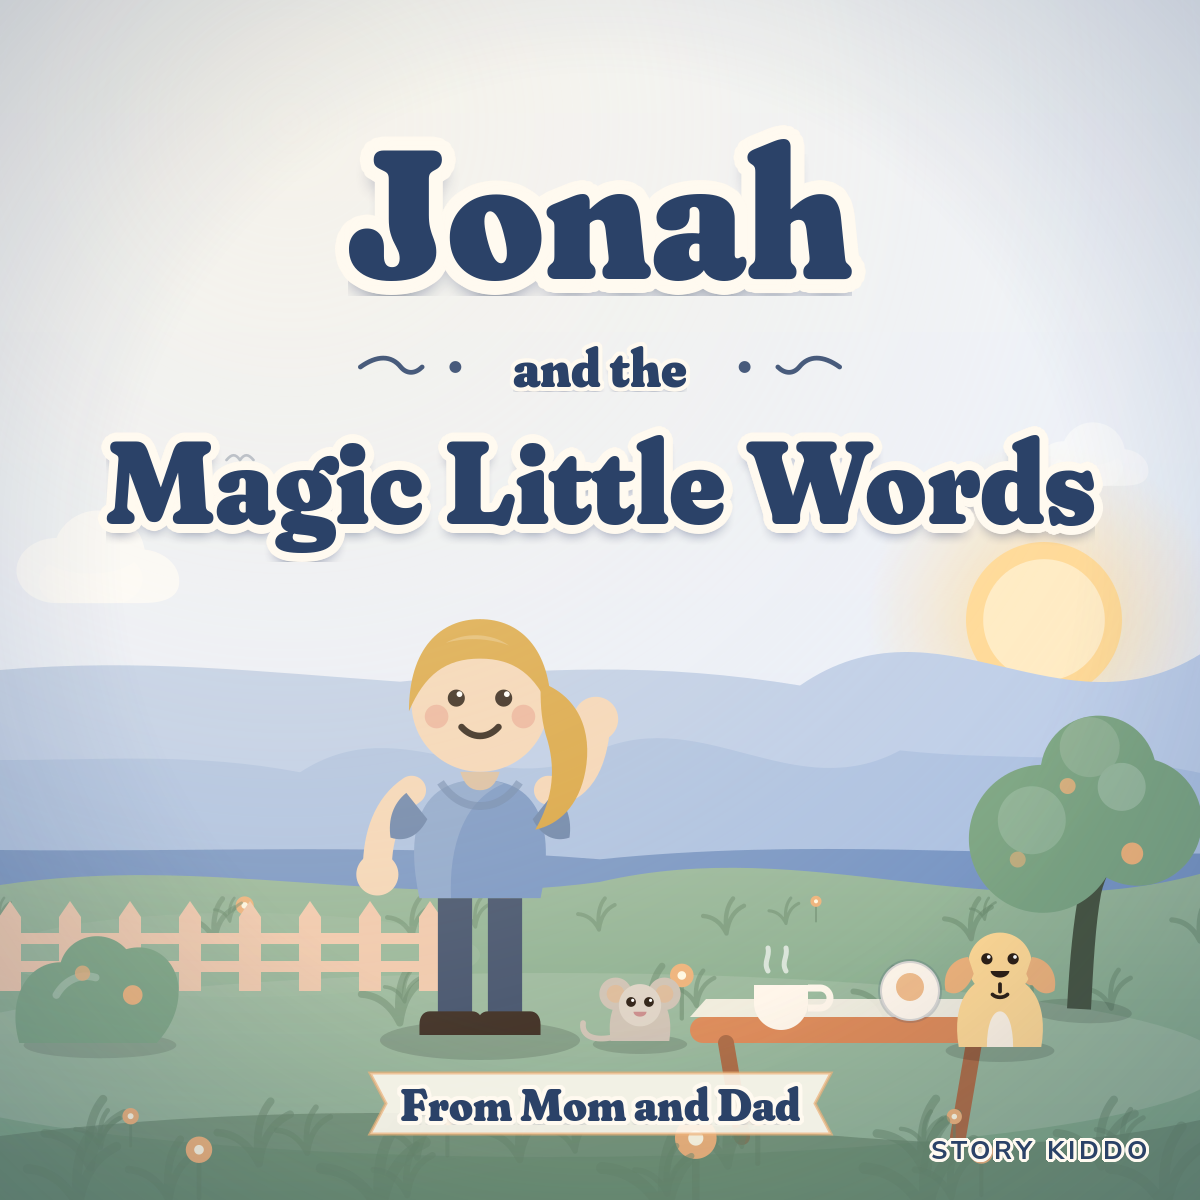
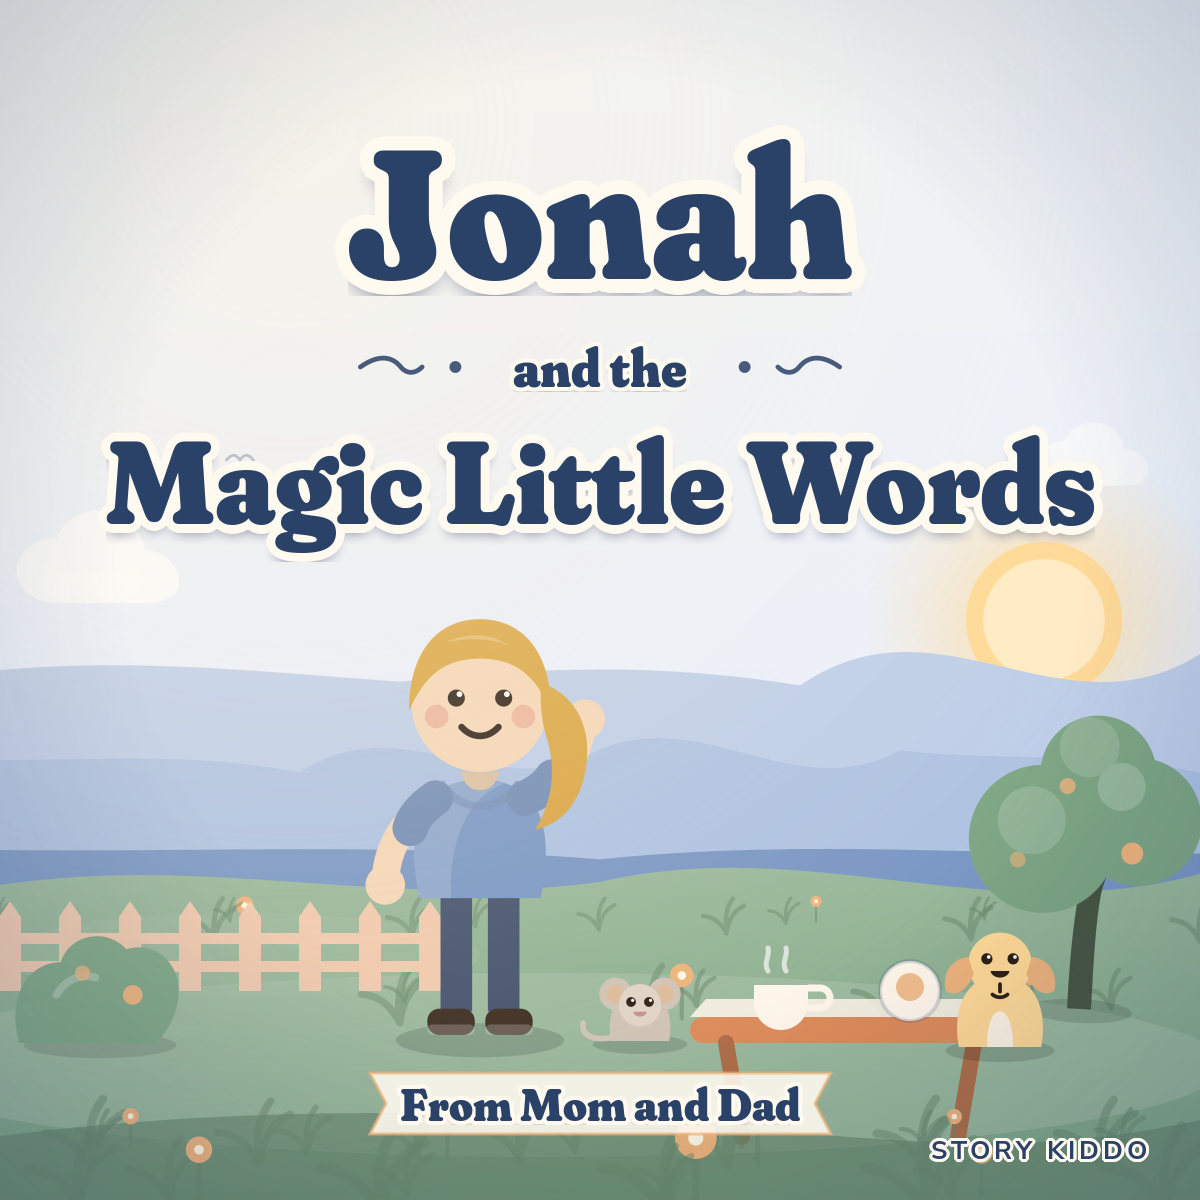
Redraw the children and rebalance the nature and gift scenes
Arms now hang from the shoulder seam with a sleeve cap instead of floating
beside the torso, and the shoes read as a pair. The stream in the nature
scene moves into the middle distance so nobody stands in the water, and the
reading pair in the gift-moment hero shifts left to leave the right side of
the picture for the book mockups.

diff --git a/src/lib/art/hero-scene.ts b/src/lib/art/hero-scene.ts
@@ -64,8 +64,8 @@ export function giftMomentScene(): string {
   const width = 1600;
   const height = 1100;
 
-  const adultHair = `<path d="M1006 466c0-46 26-74 64-74s64 28 64 74c0 14-2 26-6 36 2-34-20-52-58-52s-60 18-58 52c-4-10-6-22-6-36z" fill="#4a3324"/><path d="M1000 486c-12 22-14 48-8 70 12 2 20-6 20-20 0-16-4-32-12-50z" fill="#4a3324"/>`;
-  const childHair = `<g fill="#2a1a12"><circle cx="836" cy="524" r="24"/><circle cx="872" cy="508" r="28"/><circle cx="908" cy="524" r="24"/><circle cx="824" cy="548" r="18"/><circle cx="920" cy="548" r="18"/></g>`;
+  const adultHair = `<path d="M762 566c0-46 26-74 64-74s64 28 64 74c0 14-2 26-6 36 2-34-20-52-58-52s-60 18-58 52c-4-10-6-22-6-36z" fill="#4a3324"/><path d="M756 586c-12 22-14 48-8 70 12 2 20-6 20-20 0-16-4-32-12-50z" fill="#4a3324"/>`;
+  const childHair = `<g fill="#2a1a12"><circle cx="620" cy="624" r="24"/><circle cx="656" cy="608" r="28"/><circle cx="692" cy="624" r="24"/><circle cx="608" cy="648" r="18"/><circle cx="704" cy="648" r="18"/></g>`;
 
   return (
     `<svg xmlns="http://www.w3.org/2000/svg" width="${width}" height="${height}" viewBox="0 0 ${width} ${height}">` +
@@ -120,7 +120,7 @@ export function giftMomentScene(): string {
     `<rect width="${width}" height="${height}" fill="url(#lamplight)"/>` +
 
     // Potted plant.
-    `<g transform="translate(300 830)">` +
+    `<g transform="translate(150 838)">` +
     `<path d="M-52 0h104l-14 120h-76z" fill="#c07a55"/>` +
     `<path d="M-52 0h104l-4 30h-96z" fill="${WARM.ink}" opacity="0.12"/>` +
     `<g fill="${WARM.leaf}">` +
@@ -131,38 +131,42 @@ export function giftMomentScene(): string {
     `</g>` +
 
     // Rug.
-    `<ellipse cx="900" cy="990" rx="620" ry="112" fill="${WARM.rug}"/>` +
-    `<ellipse cx="900" cy="990" rx="560" ry="92" fill="none" stroke="${WARM.cream}" stroke-width="10" opacity="0.5"/>` +
-    `<ellipse cx="900" cy="990" rx="470" ry="72" fill="${WARM.rugDeep}" opacity="0.35"/>` +
+    `<ellipse cx="690" cy="990" rx="600" ry="112" fill="${WARM.rug}"/>` +
+    `<ellipse cx="690" cy="990" rx="540" ry="92" fill="none" stroke="${WARM.cream}" stroke-width="10" opacity="0.5"/>` +
+    `<ellipse cx="690" cy="990" rx="450" ry="72" fill="${WARM.rugDeep}" opacity="0.35"/>` +
 
-    // Sofa.
+    // Sofa back, with the pair sitting in front of it.
+    `<path d="M330 906V744c0-50 36-86 86-86h520c50 0 86 36 86 86v162z" fill="${WARM.sofa}"/>` +
+    `<path d="M330 906V744c0-50 36-86 86-86h70c-32 22-48 54-48 96v152z" fill="#ffffff" opacity="0.12"/>` +
+    `<path d="M404 700c26-14 52-8 60 14 8 20-6 42-30 46-26 4-46-10-48-32-2-14 6-22 18-28z" fill="#e3b07d"/>` +
+
+    // The grown-up, an arm around the child.
     `<g>` +
-    `<path d="M600 900v-190c0-54 38-92 92-92h420c54 0 92 38 92 92v190z" fill="${WARM.sofa}"/>` +
-    `<path d="M600 900v-190c0-54 38-92 92-92h60c-30 26-44 58-44 96v186z" fill="#ffffff" opacity="0.12"/>` +
-    `<rect x="560" y="760" width="90" height="180" rx="34" fill="${WARM.sofaDeep}"/>` +
-    `<rect x="1150" y="760" width="90" height="180" rx="34" fill="${WARM.sofaDeep}"/>` +
-    `<rect x="620" y="840" width="560" height="96" rx="34" fill="${WARM.sofaDeep}"/>` +
-    `<path d="M1086 742c26-16 52-10 60 14 8 22-6 44-30 48-26 4-46-10-48-32-2-16 6-24 18-30z" fill="#e3b07d"/>` +
+    `<path d="M760 880V760c0-46 30-76 66-76s64 30 64 76v120z" fill="#6f7f94"/>` +
+    `<path d="M768 782c-48 6-84 26-104 54" stroke="#6f7f94" stroke-width="38" stroke-linecap="round" fill="none"/>` +
+    `<circle cx="664" cy="838" r="20" fill="#eec19c"/>` +
+    `<path d="M884 782c22 10 36 28 42 52" stroke="#6f7f94" stroke-width="38" stroke-linecap="round" fill="none"/>` +
+    `<path d="M796 706c10 16 18 24 30 24s20-8 30-24z" fill="#eec19c"/>` +
+    head(826, 606, 62, "#eec19c", "#4a3324", adultHair, 5) +
     `</g>` +
 
-    // The grown-up, arm around the child.
+    // The child, the book open on their lap.
     `<g>` +
-    `<path d="M1000 900v-150c0-56 32-92 74-92s72 36 72 92v150z" fill="#6f7f94"/>` +
-    `<path d="M1000 806c-56 6-96 30-120 62" stroke="#6f7f94" stroke-width="42" stroke-linecap="round" fill="none"/>` +
-    head(1070, 500, 62, "#eec19c", "#4a3324", adultHair, 5) +
-    `<path d="M1010 560c18 24 40 36 64 36s46-12 62-34c14 10 24 26 28 44h-182c4-18 14-36 28-46z" fill="#6f7f94"/>` +
+    `<path d="M582 884V786c0-42 32-70 74-70s74 28 74 70v98z" fill="#d9654a"/>` +
+    `<path d="M592 800c-24 10-40 26-48 48M720 800c24 10 40 26 48 48" stroke="#eec19c" stroke-width="30" stroke-linecap="round" fill="none"/>` +
+    `<path d="M632 728c8 14 15 20 24 20s17-6 24-20z" fill="#8a5a3b"/>` +
+    head(656, 660, 54, "#8a5a3b", "#2a1a12", childHair, 5) +
     `</g>` +
 
-    // The child, holding the book open on their lap.
-    `<g>` +
-    `<path d="M790 900v-120c0-48 36-80 82-80s82 32 82 80v120z" fill="#d9654a"/>` +
-    `<path d="M790 812c-28 10-46 28-54 52M954 812c28 10 46 28 54 52" stroke="#eec19c" stroke-width="34" stroke-linecap="round" fill="none"/>` +
-    head(872, 560, 54, "#8a5a3b", "#2a1a12", childHair, 5) +
-    `</g>` +
-    openBook(886, 860, 1.25) +
+    // Seat and arms in front, so they really are sitting in it.
+    `<rect x="356" y="852" width="574" height="96" rx="34" fill="${WARM.sofaDeep}"/>` +
+    `<rect x="296" y="772" width="92" height="180" rx="34" fill="${WARM.sofaDeep}"/>` +
+    `<rect x="898" y="772" width="92" height="180" rx="34" fill="${WARM.sofaDeep}"/>` +
+    `<path d="M296 772h92v28h-92zM898 772h92v28h-92z" fill="#ffffff" opacity="0.12"/>` +
+    openBook(666, 872, 1.2) +
 
     // A wrapped gift, ribbon still on it.
-    `<g transform="translate(430 960)">` +
+    `<g transform="translate(220 966)">` +
     `<rect x="-90" y="-96" width="180" height="96" rx="10" fill="${WARM.cream}"/>` +
     `<rect x="-90" y="-96" width="180" height="96" rx="10" fill="${WARM.sofa}" opacity="0.2"/>` +
     `<rect x="-14" y="-96" width="28" height="96" fill="#d9654a" opacity="0.9"/>` +
@@ -171,7 +175,7 @@ export function giftMomentScene(): string {
     `</g>` +
 
     // The dog, asleep through all of it.
-    `<g transform="translate(1290 950)">` +
+    `<g transform="translate(1076 972)">` +
     `<ellipse cx="0" cy="10" rx="110" ry="20" fill="${WARM.ink}" opacity="0.14"/>` +
     `<path d="M-96 0c-10-44 18-74 66-74 44 0 74 26 70 74z" fill="#e0b98c"/>` +
     `<circle cx="-84" cy="-34" r="34" fill="#e0b98c"/>` +

diff --git a/src/lib/art/scene.ts b/src/lib/art/scene.ts
@@ -87,7 +87,7 @@ const CHILD_LOOKS: Record<string, ChildLook> = {
   emotions: { skin: "#f0c9a8", hair: "#c2703a", top: "#e4a0b2", bottom: "#64486a", hairStyle: "bob" },
   "kindness-values": { skin: "#6f4529", hair: "#241812", top: "#f4efe4", bottom: "#3f7a52", hairStyle: "braids" },
   "life-milestones": { skin: "#edc39c", hair: "#5a3a22", top: "#d2643c", bottom: "#4a5f7a", hairStyle: "short" },
-  "animals-nature": { skin: "#c98f63", hair: "#33241a", top: "#6d9a54", bottom: "#4a4032", hairStyle: "curls" },
+  "animals-nature": { skin: "#c98f63", hair: "#33241a", top: "#6d9a54", bottom: "#a2854f", hairStyle: "curls" },
   manners: { skin: "#f4d5b6", hair: "#d9a441", top: "#7795c4", bottom: "#41506b", hairStyle: "ponytail" },
 };
 
@@ -428,54 +428,61 @@ function milestonesScene(art: TrackArt, layout: Layout): string {
         `<rect x="76" y="-132" width="62" height="54" rx="10" fill="${art.accent}" opacity="0.9"/>` +
         `<path d="M-136-105h62M76-105h62" stroke="#fff6ea" stroke-width="6" opacity="0.7"/>`,
     ) +
-    stepStone(centerX - 450, ground + 130, 92) +
-    stepStone(centerX - 300, ground + 92, 78) +
-    stepStone(centerX - 160, ground + 56, 66) +
-    child(centerX - 190, ground + 44, h, look("life-milestones"), {
+    stepStone(centerX - 450, ground + 96, 92) +
+    stepStone(centerX - 320, ground + 66, 78) +
+    stepStone(centerX - 190, ground + 40, 66) +
+    child(centerX - 200, ground + 18, h, look("life-milestones"), {
       behind: `<g transform="translate(-92 -184)"><rect x="-40" y="-34" width="80" height="92" rx="22" fill="${art.accent}"/><path d="M-24-34c0-18 10-28 24-28s24 10 24 28" fill="none" stroke="${shade(
         art.accent,
         0.4,
       )}" stroke-width="8"/><rect x="-28" y="6" width="56" height="28" rx="10" fill="#fff6ea" opacity="0.85"/></g>`,
     }) +
-    companion("turtle", centerX - 10, ground + 26, 130, art)
+    companion("turtle", centerX - 10, ground + 20, 130, art)
   );
 }
 
 function natureScene(art: TrackArt, layout: Layout): string {
-  const { centerX, ground, childHeight: h, width, height } = layout;
+  const { centerX, ground, childHeight: h, width } = layout;
   const butterfly = (x: number, y: number, scale: number, color: string) =>
     at(
       x,
       y,
       scale,
-      `<path d="M0 0c-16-22-40-26-47-12s12 30 47 12zM0 0c16-22 40-26 47-12s-12 30-47 12z" fill="${color}"/>` +
-        `<path d="M0-10v22" stroke="${art.deep}" stroke-width="5" stroke-linecap="round" opacity="0.6"/>`,
+      `<g transform="rotate(-12)">` +
+        `<ellipse cx="-22" cy="-13" rx="24" ry="18" transform="rotate(-24 -22 -13)" fill="${color}"/>` +
+        `<ellipse cx="22" cy="-13" rx="24" ry="18" transform="rotate(24 22 -13)" fill="${color}"/>` +
+        `<ellipse cx="-17" cy="14" rx="17" ry="13" transform="rotate(20 -17 14)" fill="${shade(color, 0.18)}"/>` +
+        `<ellipse cx="17" cy="14" rx="17" ry="13" transform="rotate(-20 17 14)" fill="${shade(color, 0.18)}"/>` +
+        `<rect x="-3" y="-19" width="6" height="38" rx="3" fill="${art.deep}" opacity="0.7"/>` +
+        `<path d="M-2-19c-6-8-14-12-20-11M2-19c6-8 14-12 20-11" stroke="${art.deep}" stroke-width="3" fill="none" opacity="0.55" stroke-linecap="round"/>` +
+        `</g>`,
     );
+  // The stream sits in the middle distance so the children stand on dry meadow.
+  const streamY = ground - 128;
   return (
     pine(centerX - 500, ground - 30, 380, art) +
     pine(centerX - 350, ground - 60, 280, art) +
     pine(centerX + 500, ground - 34, 330, art) +
     tree(centerX + 320, ground - 30, 290, art, 2) +
-    // A stream cutting across the meadow.
-    `<path d="M0 ${n(height - 118)}c${n(width * 0.3)} ${n(-66)} ${n(width * 0.46)} ${n(44)} ${n(
+    `<path d="M0 ${n(streamY)}c${n(width * 0.3)} ${n(-38)} ${n(width * 0.46)} ${n(30)} ${n(
       width,
-    )} ${n(-34)}" stroke="#bfe0ea" stroke-width="56" fill="none" opacity="0.8" stroke-linecap="round"/>` +
-    `<path d="M0 ${n(height - 126)}c${n(width * 0.3)} ${n(-66)} ${n(width * 0.46)} ${n(44)} ${n(
+    )} ${n(-18)}" stroke="#bfe0ea" stroke-width="44" fill="none" opacity="0.8" stroke-linecap="round"/>` +
+    `<path d="M0 ${n(streamY - 7)}c${n(width * 0.3)} ${n(-38)} ${n(width * 0.46)} ${n(30)} ${n(
       width,
-    )} ${n(-34)}" stroke="#ffffff" stroke-width="12" fill="none" opacity="0.45"/>` +
+    )} ${n(-18)}" stroke="#ffffff" stroke-width="10" fill="none" opacity="0.45"/>` +
     child(centerX - 60, ground, h, look("animals-nature"), {
-      holding: `<g transform="translate(0 -250)"><rect x="-54" y="-20" width="46" height="42" rx="12" fill="${shade(
+      holding: `<g transform="translate(96 -104) rotate(18)"><circle r="42" fill="#cfe6ee" opacity="0.85"/><circle r="42" fill="none" stroke="${shade(
+        art.prop,
+        0.2,
+      )}" stroke-width="12"/><path d="M-16-18a30 30 0 0 1 22-14" stroke="#ffffff" stroke-width="8" fill="none" stroke-linecap="round" opacity="0.8"/><rect x="-9" y="40" width="18" height="52" rx="9" fill="${shade(
         art.deep,
         0.1,
-      )}"/><rect x="8" y="-20" width="46" height="42" rx="12" fill="${shade(art.deep, 0.1)}"/><rect x="-10" y="-10" width="20" height="16" fill="${shade(
-        art.deep,
-        0.1,
-      )}"/><circle cx="-31" cy="1" r="11" fill="${art.warm}" opacity="0.85"/><circle cx="31" cy="1" r="11" fill="${art.warm}" opacity="0.85"/></g>`,
+      )}"/></g>`,
     }) +
     companion("fox", centerX + 150, ground + 6, 165, art) +
-    companion("owl", centerX - 330, ground - 210, 130, art) +
-    butterfly(centerX + 280, ground - 300, 1.2, art.accent) +
-    butterfly(centerX - 190, ground - 360, 0.85, art.prop) +
+    companion("owl", centerX - 320, ground + 2, 130, art) +
+    butterfly(centerX + 300, ground - 320, 1.1, art.accent) +
+    butterfly(centerX - 200, ground - 380, 0.8, art.prop) +
     // Mushrooms in the foreground.
     at(
       centerX + 430,

diff --git a/src/lib/art/primitives.ts b/src/lib/art/primitives.ts
@@ -279,29 +279,40 @@ export function child(
   const s = height / 304;
   const { skin, hair, top, bottom, hairStyle = "short" } = look;
   const shoe = "#3b2b20";
-  const sleeve = shade(top, 0.14);
+  const sleeve = shade(top, 0.08);
 
+  // Arms hang from the shoulder seam so the sleeve caps them where the torso
+  // narrows, rather than floating beside it.
+  const limb = (d: string) =>
+    `<path d="${d}" fill="none" stroke="${skin}" stroke-width="21" stroke-linecap="round"/>`;
+  const cuff = (d: string) =>
+    `<path d="${d}" fill="none" stroke="${sleeve}" stroke-width="27" stroke-linecap="round"/>`;
+  const hand = (cx: number, cy: number) =>
+    `<circle cx="${n(cx)}" cy="${n(cy)}" r="15" fill="${skin}"/>`;
+
+  const restLeft = limb("M-36-178C-56-164-70-146-72-118") + hand(-72, -114);
+  const restRight = limb("M36-178C56-164 70-146 72-118") + hand(72, -114);
   const arms = options.wave
-    ? `<path d="M-52-186c-18 12-26 34-26 60" stroke="${skin}" stroke-width="22" stroke-linecap="round" fill="none"/>` +
-      `<circle cx="-78" cy="-122" r="16" fill="${skin}"/>` +
-      `<path d="M52-186c22 2 34-20 36-50" stroke="${skin}" stroke-width="22" stroke-linecap="round" fill="none"/>` +
-      `<circle cx="88" cy="-240" r="17" fill="${skin}"/>`
-    : `<path d="M-52-186c-16 16-24 38-24 62" stroke="${skin}" stroke-width="22" stroke-linecap="round" fill="none"/>` +
-      `<circle cx="-76" cy="-120" r="16" fill="${skin}"/>` +
-      `<path d="M52-186c16 16 24 38 24 62" stroke="${skin}" stroke-width="22" stroke-linecap="round" fill="none"/>` +
-      `<circle cx="76" cy="-120" r="16" fill="${skin}"/>`;
+    ? restLeft + limb("M36-178C58-188 74-208 78-236") + hand(80, -240)
+    : restLeft + restRight;
+  const cuffs = options.wave
+    ? cuff("M-34-180C-44-173-51-165-53-157") + cuff("M34-180C44-184 51-190 55-196")
+    : cuff("M-34-180C-44-173-51-165-53-157") + cuff("M34-180C44-173 51-165 53-157");
 
   const body =
-    `<ellipse cx="0" cy="4" rx="76" ry="15" fill="#000000" opacity="0.15"/>` +
+    `<ellipse cx="0" cy="4" rx="64" ry="13" fill="#000000" opacity="0.15"/>` +
     (options.behind ?? "") +
     // legs and shoes
-    `<path d="M-32-104h26v88h-26zM6-104h26v88H6z" fill="${bottom}"/>` +
-    `<path d="M-38-18h32c5 0 8 4 8 10v8h-48v-8c0-6 3-10 8-10zM6-18h32c5 0 8 4 8 10v8H-2v-8c0-6 3-10 8-10z" fill="${shoe}"/>` +
+    `<path d="M-30-108h24v90h-24zM6-108h24v90H6z" fill="${bottom}"/>` +
+    `<rect x="-40" y="-20" width="36" height="20" rx="9" fill="${shoe}"/>` +
+    `<rect x="4" y="-20" width="36" height="20" rx="9" fill="${shoe}"/>` +
+    `<rect x="-40" y="-8" width="36" height="8" rx="4" fill="#ffffff" opacity="0.22"/>` +
+    `<rect x="4" y="-8" width="36" height="8" rx="4" fill="#ffffff" opacity="0.22"/>` +
     // torso
     `<path d="M-46-104c-10-46-4-90 46-90s56 44 46 90z" fill="${top}"/>` +
     `<path d="M-46-104c-10-46-4-90 46-90 7 0 13 1 18 3-30 12-42 48-40 87z" fill="#ffffff" opacity="0.16"/>` +
     arms +
-    `<path d="M-56-184c-10 8-14 20-12 34 12 4 22-2 28-14zM56-184c10 8 14 20 12 34-12 4-22-2-28-14z" fill="${sleeve}"/>` +
+    cuffs +
     `<path d="M-30-192c8 12 18 18 30 18s22-6 30-18" fill="none" stroke="${sleeve}" stroke-width="6" opacity="0.6"/>` +
     // neck and head
     `<path d="M-15-200c3 10 8 14 15 14s12-4 15-14z" fill="${shade(skin, 0.12)}"/>` +
